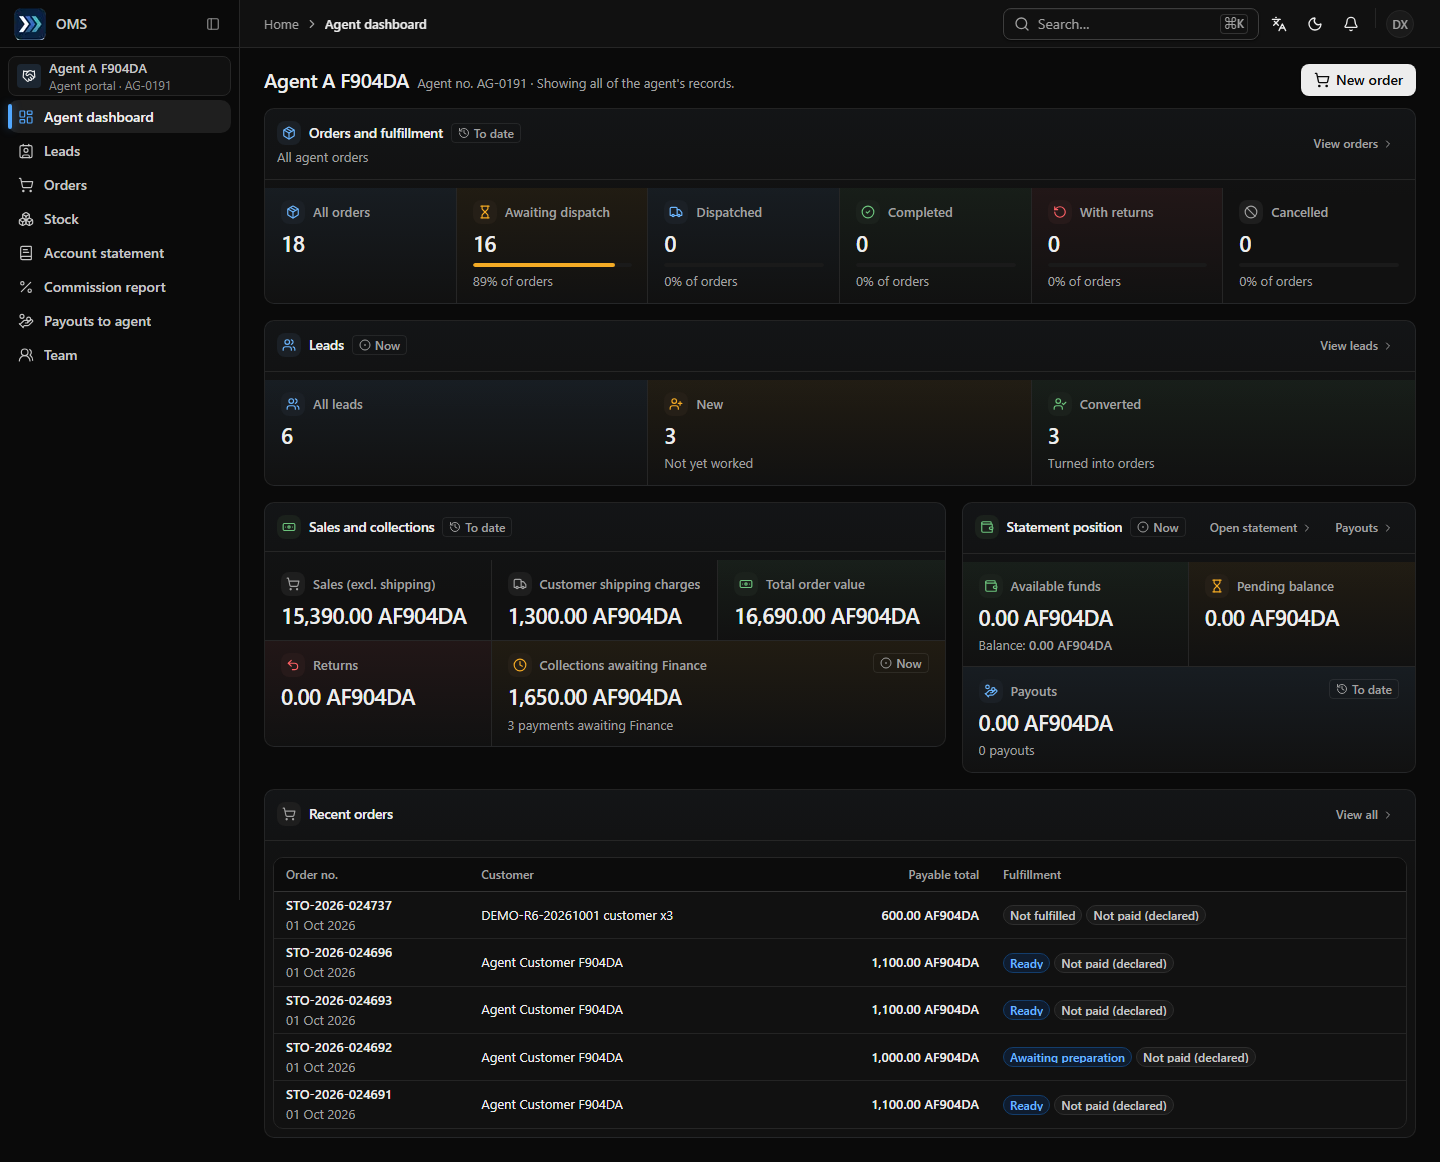
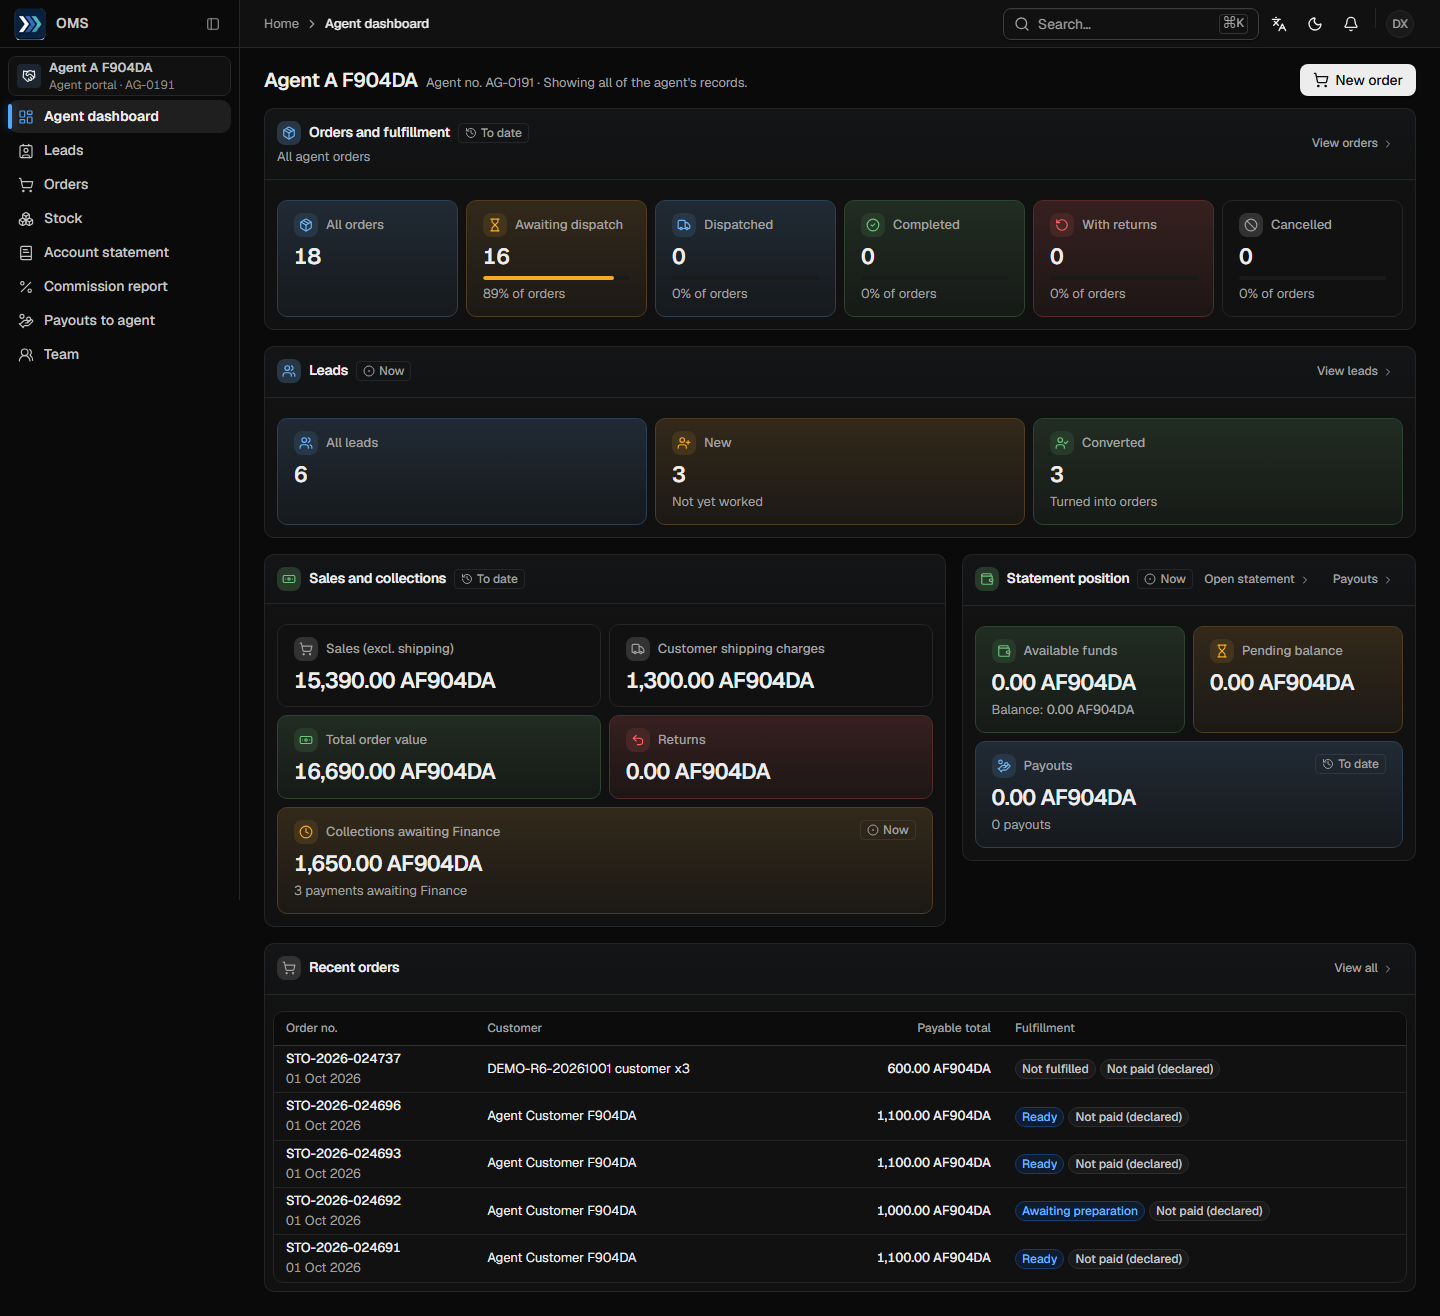
feat(web): metric tiles as soft tone-tinted cards (R6 E1 tuning)
Each toned InsightCard is its own card in an 8px-gap group: tone gradient
12%->3.5% (dark 18%->6%), 28%/32% tone hairline, stronger icon chip, flat at
rest; neutral tiles plain; value stays foreground (red only for emphasized
destructive/loss). Tokens --insight-tint-*/--insight-icon-fill, print plain,
contrast pairs added. Re-captured 7 after shots; README + design-system 12.13.

diff --git a/apps/web/src/theme/recipes.css b/apps/web/src/theme/recipes.css
@@ -32,33 +32,30 @@ html[dir="ltr"] :is(h1, h2) {
 
 [data-slot="insight-card"] {
   --tone: var(--insight-neutral);
-  --tone-strength: var(--surface-soft-tone-strength);
-  --tone-border-strength: var(--surface-soft-tone-border-strength);
+  --tone-top: var(--insight-tint-top);
+  --tone-bottom: var(--insight-tint-bottom);
+  --tone-border: var(--insight-tint-border);
   --accent-edge: 3px;
-  /* Round 5 soft tile (§12.12): the tone tints the top of the tile by a few
-     percent and fades into the card — restrained, never a coloured block. */
+  /* Round 6 soft tile (§12.13): its own card, a clearly perceptible tone
+     gradient (top → bottom) and a hairline in the tone. Flat at rest — no
+     shadow, no blur; colour follows meaning only. */
   background-color: var(--card);
   background-image: linear-gradient(
     180deg,
-    color-mix(in oklab, var(--tone) var(--tone-strength), var(--surface-soft)),
-    var(--card)
+    color-mix(in oklab, var(--tone) var(--tone-top), var(--card)),
+    color-mix(in oklab, var(--tone) var(--tone-bottom), var(--card))
   );
-  /* Round 6: a toned tile's hairline carries a trace of its tone. */
-  border-color: color-mix(
-    in oklab,
-    var(--tone) var(--tone-border-strength),
-    var(--surface-soft-border)
-  );
-  box-shadow: var(--surface-soft-shadow);
+  border-color: color-mix(in oklab, var(--tone) var(--tone-border), var(--card));
+  box-shadow: none;
   color: var(--card-foreground);
   transition:
     border-color var(--duration-base) var(--ease-standard),
     box-shadow var(--duration-base) var(--ease-standard);
 }
-/* Neutral tiles take the plain soft surface (no grey cast). */
-[data-slot="insight-card"][data-tone="neutral"] {
-  --tone-strength: 0%;
-  --tone-border-strength: 0%;
+/* Neutral tiles stay neutral: plain card, the standard hairline. */
+[data-slot="insight-card"]:is([data-tone="neutral"], :not([data-tone])) {
+  background-image: none;
+  border-color: var(--border);
 }
 [data-slot="insight-card"][data-tone="info"] {
   --tone: var(--insight-info);
@@ -87,34 +84,32 @@ html[dir="ltr"] :is(h1, h2) {
 
 [data-slot="insight-card"] [data-slot="insight-icon"] {
   color: var(--tone);
-  background-color: color-mix(in oklab, var(--tone) 11%, var(--card));
+  background-color: color-mix(in oklab, var(--tone) var(--insight-icon-fill), var(--card));
 }
 [data-slot="insight-card"] [data-slot="insight-bar"] {
   background-color: var(--tone);
 }
-/* Emphasis (open work / discrepancy): start-edge accent, tone figure. */
+/* Emphasis (open work / discrepancy): start-edge accent. The figure stays in
+   the foreground colour; only a destructive / loss figure turns red. */
 [data-slot="insight-card"][data-emphasis] {
-  box-shadow:
-    inset var(--accent-edge) 0 0 var(--tone),
-    var(--surface-soft-shadow);
+  box-shadow: inset var(--accent-edge) 0 0 var(--tone);
 }
 [dir="rtl"] [data-slot="insight-card"][data-emphasis] {
-  box-shadow:
-    inset calc(var(--accent-edge) * -1) 0 0 var(--tone),
-    var(--surface-soft-shadow);
+  box-shadow: inset calc(var(--accent-edge) * -1) 0 0 var(--tone);
 }
-[data-slot="insight-card"][data-emphasis] [data-slot="insight-value"] {
-  color: var(--tone);
+[data-slot="insight-card"]:is([data-tone="destructive"], [data-tone="loss"])[data-emphasis]
+  [data-slot="insight-value"] {
+  color: var(--destructive-text);
 }
 [data-slot="insight-card"] [data-slot="insight-action"] {
   color: var(--muted-foreground);
   transition: color var(--duration-base) var(--ease-standard);
 }
 
-/* Interactive tiles: hover and keyboard focus read the same — border and
-   shadow only (Round 5): no fill change, no transform, no layout shift. */
+/* Interactive tiles only: hover and keyboard focus = tone border (~45%) and a
+   soft lift — no fill change, no transform, no layout shift. */
 [data-slot="insight-card"][data-interactive]:is(:hover, :focus-visible) {
-  border-color: color-mix(in oklab, var(--tone) 45%, var(--surface-soft-hover-border));
+  border-color: color-mix(in oklab, var(--tone) 45%, var(--card));
   box-shadow: var(--surface-soft-shadow-hover);
 }
 [data-slot="insight-card"][data-interactive][data-emphasis]:is(:hover, :focus-visible) {
@@ -137,7 +132,7 @@ html[dir="ltr"] :is(h1, h2) {
 [data-slot="panel-icon"] {
   --tone: var(--insight-neutral);
   color: var(--tone);
-  background-color: color-mix(in oklab, var(--tone) 11%, var(--card));
+  background-color: color-mix(in oklab, var(--tone) var(--insight-icon-fill), var(--card));
 }
 [data-slot="panel-icon"][data-tone="info"] {
   --tone: var(--insight-info);
@@ -157,38 +152,12 @@ html[dir="ltr"] :is(h1, h2) {
   border-color: var(--surface-soft-border);
 }
 
-/* Metric group (`InsightGroup`): related figures share ONE surface split by
-   hairlines — the way a report groups a metric row — instead of a box per
-   number. Cells keep their own padding; dividers are 1px shadows on the
-   block-start and inline-start edge, so the outer ones clip at the
-   container and any wrap (4 → 2 × 2 on phones) stays correct. */
+/* Metric group (`InsightGroup`): a gap-separated row of tile cards; the group
+   draws nothing itself. */
 [data-slot="insight-group"] {
-  background-color: var(--card);
-  background-image: var(--surface-soft-gradient);
-  border-color: var(--surface-soft-border);
-  box-shadow: var(--surface-soft-shadow);
-}
-/* Cells sit on the group's one soft surface; only a toned cell adds its own
-   faint top tint. */
-[data-slot="insight-group"] > [data-slot="insight-card"],
-[data-slot="insight-group"] > * > [data-slot="insight-card"] {
-  background-color: transparent;
-  background-image: linear-gradient(
-    180deg,
-    color-mix(in oklab, var(--tone) var(--tone-strength), transparent),
-    transparent
-  );
+  background: none;
   border: 0;
-  border-radius: 0;
-  box-shadow:
-    -1px 0 0 var(--border),
-    0 -1px 0 var(--border);
-}
-[dir="rtl"] [data-slot="insight-group"] > [data-slot="insight-card"],
-[dir="rtl"] [data-slot="insight-group"] > * > [data-slot="insight-card"] {
-  box-shadow:
-    1px 0 0 var(--border),
-    0 -1px 0 var(--border);
+  box-shadow: none;
 }
 
 @media (prefers-reduced-motion: reduce) {
@@ -458,12 +427,6 @@ html[dir="ltr"] :is(h1, h2) {
   background-image: var(--surface-soft-gradient);
   border-color: var(--surface-soft-border);
   box-shadow: var(--surface-soft-shadow);
-}
-/* A metric group or a list inside a soft panel shares the panel's surface. */
-[data-slot="card"][data-surface="soft"] [data-slot="insight-group"] {
-  background-color: transparent;
-  background-image: none;
-  box-shadow: none;
 }
 @media (prefers-reduced-motion: reduce) {
   [data-slot="card"][data-surface="soft"] {

diff --git a/apps/web/src/app/(shell)/agent/page.tsx b/apps/web/src/app/(shell)/agent/page.tsx
@@ -65,13 +65,11 @@ const STAGE_META: Record<string, { icon: LucideIcon; tone: InsightTone }> = {
 };
 
 /** Figures of one panel on the panel's soft surface, split by hairlines. */
-const GROUP = "rounded-none border-0";
+const GROUP = "p-3";
 const TILE = "px-4 py-3";
 const ORDER_GRID = "grid-cols-2 sm:grid-cols-3 xl:grid-cols-6";
 /** Groups whose tile count leaves a gap: the last tile takes the rest of its row. */
 const FILL_LAST_2 = "sm:[&>*:last-child:nth-child(odd)]:col-span-2";
-const FILL_LAST_3 =
-  "sm:max-lg:[&>*:last-child:nth-child(odd)]:col-span-2 lg:[&>*:last-child:nth-child(3n+1)]:col-span-3 lg:[&>*:last-child:nth-child(3n+2)]:col-span-2";
 
 /** Lead counts from the scoped leads list (its `total`) — no new endpoint. */
 interface LeadCounts {
@@ -328,9 +326,7 @@ export default function AgentDashboardPage() {
                 title={t("insights.agent.salesTitle")}
                 scope={toDate}
               >
-                <InsightGroup
-                  className={cn(GROUP, "grid-cols-1 sm:grid-cols-2 lg:grid-cols-3", FILL_LAST_3)}
-                >
+                <InsightGroup className={cn(GROUP, "grid-cols-1 sm:grid-cols-2", FILL_LAST_2)}>
                   {data.sales
                     ? [
                         tile({

diff --git a/apps/web/src/app/globals.css b/apps/web/src/app/globals.css
@@ -349,6 +349,12 @@
   --surface-soft-tone-strength: 5%;
   /* Tone share of a toned tile's hairline (Round 6). */
   --surface-soft-tone-border-strength: 14%;
+  /* Round 6 metric tile (§12.13): tone share of the tile gradient (top →
+     bottom), of its hairline and of its icon chip. */
+  --insight-tint-top: 12%;
+  --insight-tint-bottom: 3.5%;
+  --insight-tint-border: 28%;
+  --insight-icon-fill: 18%;
   --surface-soft-row-hover: color-mix(in oklab, var(--brand-canvas) 55%, var(--card));
   --form-card-width-narrow: 32.5rem;
   --form-card-width: 40rem;
@@ -520,6 +526,10 @@
   --surface-soft-shadow-hover: 0 0 0 1px rgb(255 255 255 / 0.03), 0 8px 18px -8px rgb(0 0 0 / 0.75);
   --surface-soft-tone-strength: 7%;
   --surface-soft-tone-border-strength: 18%;
+  --insight-tint-top: 18%;
+  --insight-tint-bottom: 6%;
+  --insight-tint-border: 32%;
+  --insight-icon-fill: 26%;
   --surface-soft-row-hover: color-mix(in oklab, #52a8ff 6%, var(--card));
   /* Round 6 dropdown-trigger trial (dark): A stays a deep navy (lifted a
      step so it separates from the canvas, with a light hairline); B keeps the

diff --git a/apps/web/src/components/shared/insight-card.tsx b/apps/web/src/components/shared/insight-card.tsx
@@ -158,18 +158,14 @@ export function InsightCard({
 }
 
 /**
- * Related static `InsightCard`s on ONE surface split by hairlines (Round 4,
- * design-system §12.8) — a metric row, not a box per number. The caller
- * sets the columns (`grid-cols-*`); dividers survive any wrap. Interactive
- * (href) tiles stay separate cards.
+ * Related `InsightCard`s as one metric row (design-system §12.8 / §12.13).
+ * Round 6: each tile is its own soft, tone-tinted card with an 8px gap — the
+ * group itself draws nothing. The caller sets the columns (`grid-cols-*`)
+ * and, inside a panel, the inset padding.
  */
 export function InsightGroup({ children, className, ...props }: ComponentProps<"div">) {
   return (
-    <div
-      data-slot="insight-group"
-      className={cn("grid min-w-0 overflow-hidden rounded-md border", className)}
-      {...props}
-    >
+    <div data-slot="insight-group" className={cn("grid min-w-0 gap-2", className)} {...props}>
       {children}
     </div>
   );

diff --git a/apps/web/src/theme/print.css b/apps/web/src/theme/print.css
@@ -470,6 +470,9 @@
     --surface-soft-shadow-hover: none;
     --surface-soft-tone-strength: 0%;
     --surface-soft-tone-border-strength: 0%;
+    --insight-tint-top: 0%;
+    --insight-tint-bottom: 0%;
+    --insight-tint-border: 0%;
   }
   :is(
     [data-slot="card"][data-surface="soft"],
@@ -479,5 +482,8 @@
   ):not([data-print-sheet] *) {
     background: var(--print-paper) !important;
     box-shadow: none !important;
+  }
+  [data-slot="insight-card"]:not([data-print-sheet] *) {
+    border-color: var(--print-rule) !important;
   }
 }

diff --git a/apps/web/src/components/dashboard/sales-panels.tsx b/apps/web/src/components/dashboard/sales-panels.tsx
@@ -49,8 +49,8 @@ export const PERIOD_LABEL_KEY: Record<SalesPeriod, MessageKey> = {
   month: "crm.leads.dashboard.month",
 };
 
-/** Six figures in one hairline-split cluster: 3 × 2 on desktop, 2 × 3 on phones. */
-const CLUSTER = "rounded-none border-0 grid-cols-2 sm:grid-cols-3";
+/** Six figure tiles: 3 × 2 on desktop, 2 × 3 on phones. */
+const CLUSTER = "p-3 grid-cols-2 sm:grid-cols-3";
 
 interface Figure {
   key: string;

diff --git a/apps/web/src/components/dashboard/bank-matching-panel.tsx b/apps/web/src/components/dashboard/bank-matching-panel.tsx
@@ -85,7 +85,7 @@ export function BankMatchingPanel({
           className="py-6"
         />
       ) : (
-        <InsightGroup className="rounded-none border-0 grid-cols-1 sm:grid-cols-2">
+        <InsightGroup className="p-3 grid-cols-1 sm:grid-cols-2">
           <InsightCard
             icon={ArrowDownToLine}
             tone="success"

diff --git a/specs/enterprise-ui-overhaul/design-system.md b/specs/enterprise-ui-overhaul/design-system.md
@@ -657,8 +657,20 @@ Spec: `specs/ui-navigation-r6/spec.md` §E. Released only after owner visual app
   - red (`destructive`): overdue items, errors and returns
   - neutral: everything else
 
-  A toned tile gets a 5% top tint (7% in dark) and a hairline that carries 14% of the tone (18% in
-  dark) (`--surface-soft-tone-border-strength`). Print sets both to 0.
+  Each metric tile is its own soft card. `InsightGroup` is only a grid with an 8px gap and draws
+  nothing itself.
+  - A toned tile has a top-to-bottom tone gradient:
+    - light: 12% at the top, 3.5% at the bottom
+    - dark: 18% at the top, 6% at the bottom
+  - The tile hairline carries 28% of the tone (32% in dark); the icon chip 18% (26% in dark).
+  - Tokens: `--insight-tint-top`, `--insight-tint-bottom`, `--insight-tint-border`,
+    `--insight-icon-fill`.
+  - Flat at rest: no shadow.
+  - Neutral tiles stay a plain card with the standard border.
+  - The value stays in the foreground colour. An emphasized destructive or loss tile is the
+    exception: its value is red.
+  - Hover applies to interactive tiles only: the edge goes to 45% of the tone, plus a soft lift.
+  - Print: white paper and one rule.
 
 - **Scope lives in the header, not the tile.** `DashboardPanel` takes `scope`, rendered as
   `InsightScope`, a neutral outline chip with three values:

diff --git a/docs/user-guide/evidence/r6-visual-20261001/README.md b/docs/user-guide/evidence/r6-visual-20261001/README.md
@@ -16,6 +16,25 @@ were logged. The re-take waits for three things, and otherwise fails instead of 
 - no `[data-slot="skeleton"]`, no `aria-busy`, and no «جارٍ التحميل» / "Loading…" text
 - the same condition still true 1.5s later
 
+**Tile tuning (2026-10-03).** The metric tiles were re-tuned so their colour is easier to see.
+Each toned tile is now its own soft card with an 8px gap and:
+
+- a tone gradient, 12% → 3.5% in light and 18% → 6% in dark
+- a hairline at 28% of the tone (32% in dark)
+- an icon chip at 18% (26% in dark)
+
+Neutral tiles stay plain, and tiles have no shadow at rest. Seven "after" files were re-taken with
+the same load guard:
+
+- company dashboard: AR light 1440, EN dark 1440, AR light 390
+- Agent Admin dashboard: AR light 1440, EN dark 1440
+- Agent Sales dashboard: AR light 1440
+- trial balance, expanded: AR light 1440
+
+The other "after" dashboard and report variants, plus the interactive attention shots, show the
+pre-tuning tiles. All pairs in `contrast-check.mjs` pass, including the new tile label and value
+pairs on the strongest tint.
+
 **Before** comes from `main` @ `901e075`, served from a temporary `git worktree` against the same
 API and data, which was removed afterwards. **After** comes from this branch.
 
